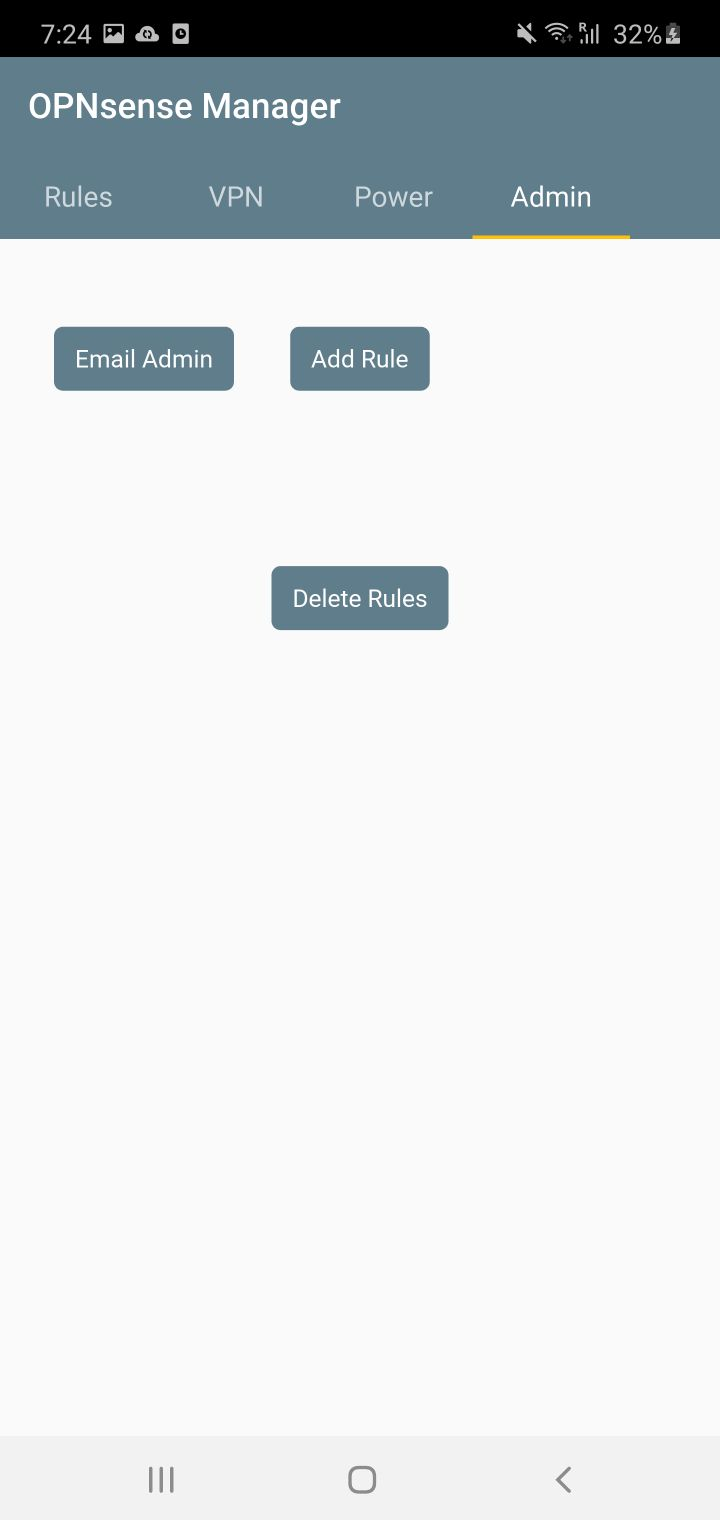
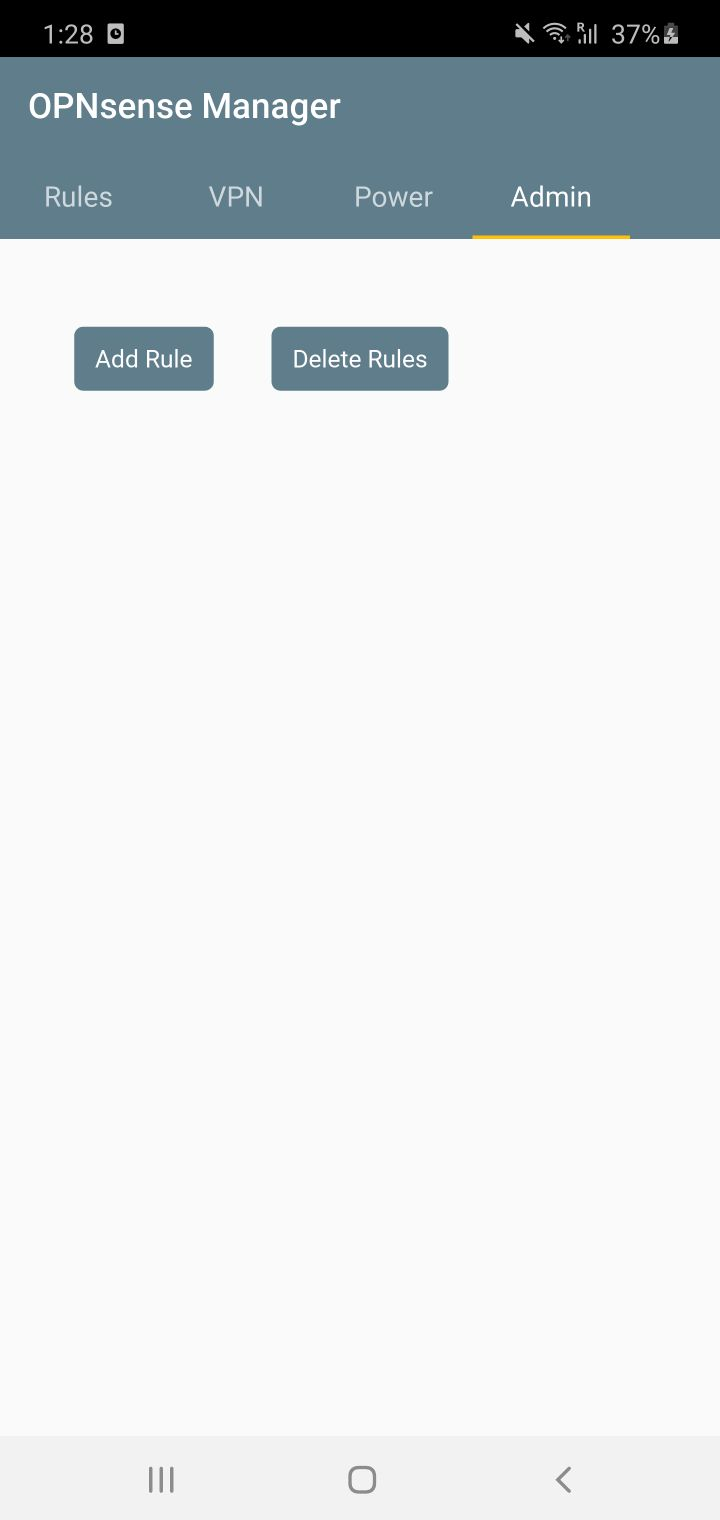
Removed email admin

diff --git a/main.py b/main.py
@@ -4,12 +4,11 @@ from kivymd.uix.floatlayout import MDFloatLayout
 from kivymd.uix.button import MDFlatButton, MDFloatingActionButton
 from kivymd.uix.tab import MDTabsBase
 from kivymd.uix.dialog import MDDialog
-from smtplib import SMTP_SSL as SMTP
-from email.mime.text import MIMEText
 from kivy.lang import Builder
 from kivy.uix.screenmanager import Screen, ScreenManager
 from kivymd.uix.list import TwoLineIconListItem, IconLeftWidget, TwoLineListItem
 from db import *
+import ssl
 import threading
 import requests
 import json
@@ -284,50 +283,6 @@ class MainApp(MDApp):
     def close_dialog(self, obj):
         '''Closes dialog boxes'''
         self.dialog.dismiss()
-
-    def support_email(self):
-        '''Sends a canned Email to Admin Email'''
-        SMTPserver = self.cfg["email_host"]
-        sender = self.cfg["From_email"]
-        destination = [f'{self.cfg["To_email"]}']
-        USERNAME = sender
-        PASSWORD = self.cfg["password"]
-
-        text_subtype = 'plain'
-
-        content = """\
-        I am having firewall issues please check it out for me.
-        """
-
-        subject = "Firewall Issues"
-
-        try:
-            msg = MIMEText(content, text_subtype)
-            msg['Subject'] = subject
-            msg['From'] = sender
-
-            conn = SMTP(SMTPserver)
-            conn.set_debuglevel(False)
-            conn.login(USERNAME, PASSWORD)
-            try:
-                conn.sendmail(sender, destination, msg.as_string())
-            finally:
-                conn.quit()
-                close_button = MDFlatButton(
-                    text='Close', on_release=self.close_dialog)
-                self.dialog = MDDialog(title='Email', text='You Sent an Email to admin',
-                                       size_hint=(0.7, 1),
-                                       buttons=[close_button])
-                self.dialog.open()
-
-        except:
-            close_button = MDFlatButton(
-                text='Close', on_release=self.close_dialog)
-            self.dialog = MDDialog(title='Error', text='There was an error when sending your email.',
-                                   size_hint=(0.7, 1),
-                                   buttons=[close_button])
-            self.dialog.open()
-
 
 if __name__ == '__main__':
     ma = MainApp()

diff --git a/Readme.md b/Readme.md
@@ -14,7 +14,7 @@ OPNsense firewall manager used to manage rules created with the firewall automat
 - [X] Add ability to delete rules from the main list.
 - [x] Add a new Screen to add rules to DB manually.
 - [x] Switch from png file for status indication to icons.
-- [ ] Fix Email Admin Button.
+- [ ] <strike>Fix Email Admin Button.</strike>
 - [ ] Speed up rule list generation on load.
 - [X] Update only selected rule icon when enabling/disabling vs. querying rebuilding the whole list
 - [ ] Fix dialog box not dismissing after delete rule. (You have to touch behind the rule to dismiss)

diff --git a/changelog.md b/changelog.md
@@ -6,6 +6,11 @@ and this project adheres to [Semantic Versioning](https://semver.org/spec/v2.0.0
 
 ## [Unreleased]
 
+## [0.0.3] - 2021-04-30
+### Removed
+- Email admin button from admin tab
+- Email admin function from main.py
+
 ## [0.0.2] - 2021-04-28
 ### Changed
 - Changed rule_on_click to only update the list item icon instead of removing the list and regenerating.
